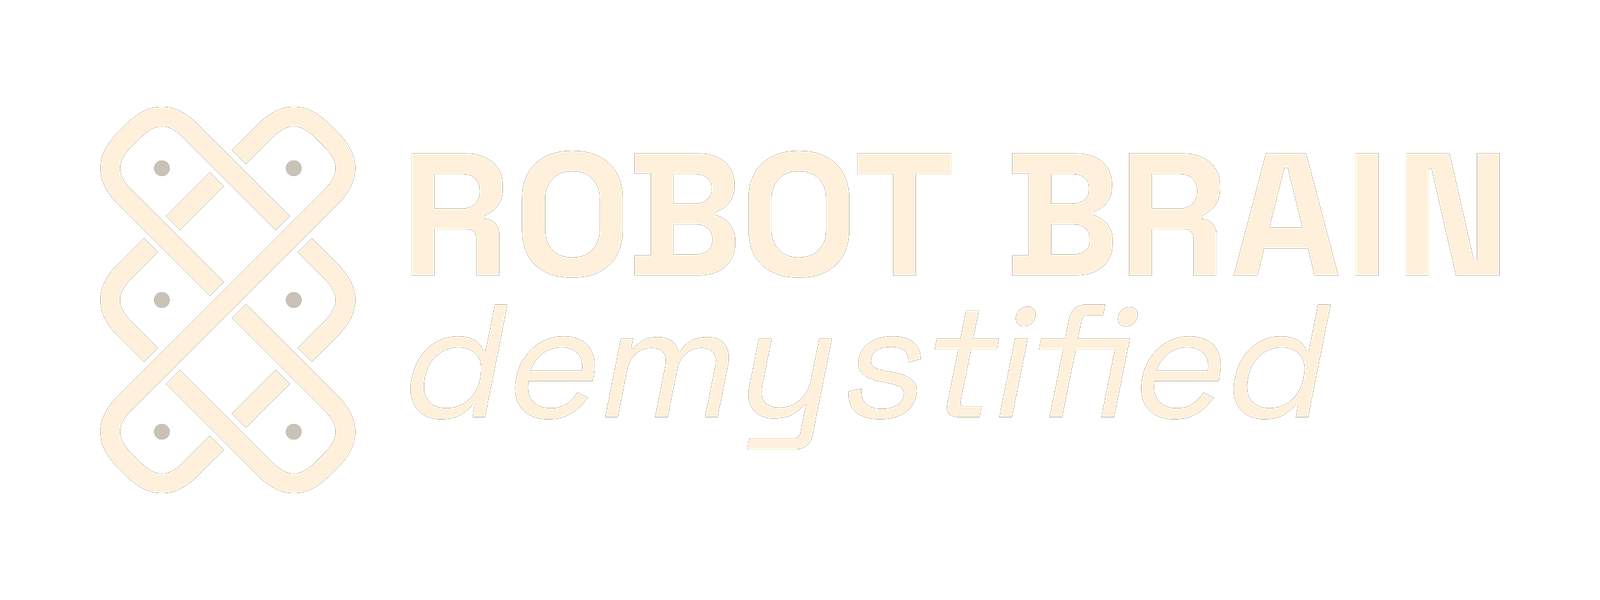
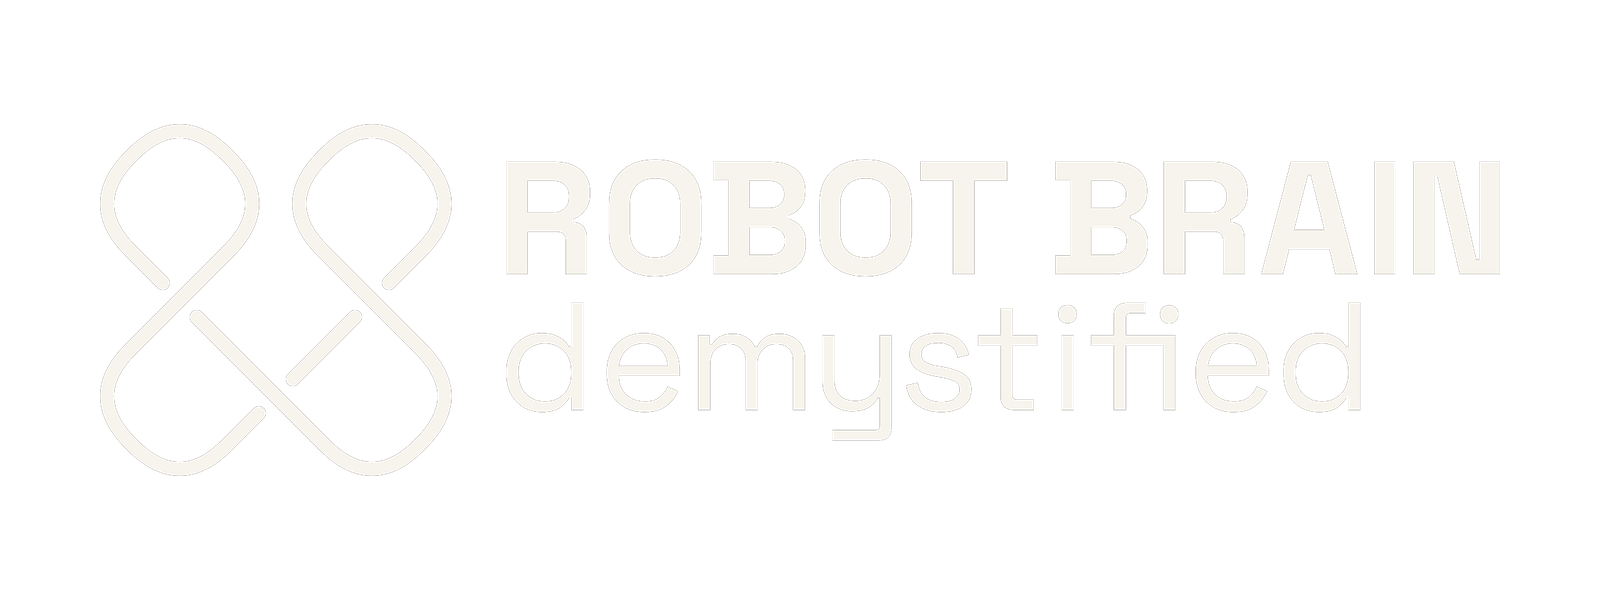
Apply petrol closed-weave brand identity
Update canonical marks, upright wordmark, palette, favicon and share image. Preserve the established page content and equal channel links; add a versioned email badge.

Changed region(s): [[0.0625, 0.18, 0.5938, 0.84], [0.25, 0.51, 0.8438, 0.75], [0.625, 0.24, 0.9375, 0.48]]

diff --git a/index.html b/index.html
@@ -5,29 +5,29 @@
 <meta name="viewport" content="width=device-width, initial-scale=1, viewport-fit=cover">
 <title>Robot Brain Demystified</title>
 <meta name="description" content="Demystifying the intelligence that lets a robot perceive, think, and act.">
-<link rel="icon" type="image/png" href="/favicon.png?v=kolam2">
-  <link rel="apple-touch-icon" href="/favicon.png?v=kolam2">
+<link rel="icon" type="image/png" href="/favicon.png?v=weave1">
+  <link rel="apple-touch-icon" href="/apple-touch-icon.png?v=weave1">
 <meta property="og:title" content="Robot Brain Demystified">
 <meta property="og:description" content="Demystifying the intelligence that lets a robot perceive, think, and act.">
 <meta property="og:type" content="website">
 <meta property="og:url" content="https://robotbraindemystified.com">
-<meta property="og:image" content="https://robotbraindemystified.com/og.png?v=kolam2">
-<meta name="theme-color" content="#A4452C">
+<meta property="og:image" content="https://robotbraindemystified.com/og.png?v=weave1">
+<meta name="theme-color" content="#123F46">
 <link rel="canonical" href="https://robotbraindemystified.com/">
 <meta name="twitter:card" content="summary_large_image">
 <style>
 @font-face{font-family:"Space Grotesk";src:url("/SpaceGrotesk-Regular.ttf") format("truetype");font-weight:400;font-display:swap}
 @font-face{font-family:"Space Grotesk";src:url("/SpaceGrotesk-Bold.ttf") format("truetype");font-weight:700;font-display:swap}
-:root{--terra:#A4452C;--cream:#FFF0DB;color-scheme:dark;font-synthesis:none}
-*{box-sizing:border-box}html{min-width:0}body{margin:0;background:var(--terra);color:var(--cream);font-family:"Space Grotesk",Arial,sans-serif;-webkit-font-smoothing:antialiased}a{color:inherit;text-decoration:none}a:focus-visible{outline:2px solid var(--cream);outline-offset:5px}
+:root{--petrol:#123F46;--chalk:#F7F4ED;color-scheme:dark;font-synthesis:none}
+*{box-sizing:border-box}html{min-width:0}body{margin:0;background:var(--petrol);color:var(--chalk);font-family:"Space Grotesk",Arial,sans-serif;-webkit-font-smoothing:antialiased}a{color:inherit;text-decoration:none}a:focus-visible{outline:2px solid var(--chalk);outline-offset:5px}
 main{width:min(100%,740px);min-height:100svh;margin:auto;padding:48px 28px 30px;display:flex;flex-direction:column;align-items:center;justify-content:center;text-align:center}
 h1{width:min(100%,540px);margin:0;font-size:inherit;line-height:0}.lockup{display:block;width:100%;height:auto}.sr-only{position:absolute;width:1px;height:1px;padding:0;margin:-1px;overflow:hidden;clip-path:inset(50%);white-space:nowrap;border:0}
 .desc{font-size:clamp(17px,2.3vw,21px);font-weight:400;line-height:1.6;max-width:35ch;margin:14px 0 0;text-wrap:balance}
 .triad{display:flex;align-items:center;justify-content:center;gap:14px;margin:21px 0 0;font-size:11px;line-height:1.5;letter-spacing:.18em;text-transform:uppercase}.triad b{font-weight:400}.triad .sep{width:3px;height:3px;border-radius:50%;background:currentColor;opacity:.5;font-size:0}
-.links{width:100%;display:grid;grid-template-columns:repeat(3,minmax(0,1fr));gap:12px;margin:38px 0 0}.links a{min-width:0;min-height:132px;display:flex;flex-direction:column;align-items:center;justify-content:center;gap:14px;padding:22px 12px;border:1px solid rgba(255,240,219,.32);border-radius:16px;background:rgba(255,240,219,.045);transition:background .18s,transform .18s,border-color .18s}.links a svg{width:25px;height:25px;flex:none}.links .meta{display:flex;flex-direction:column;gap:5px;min-width:0}.links .lbl{font-size:15px;font-weight:700;line-height:1.3}.links .hd{font-size:12px;line-height:1.5;letter-spacing:-.01em;white-space:normal;overflow-wrap:anywhere}.links a:active{transform:translateY(1px)}
-@media(hover:hover){.links a:hover{transform:translateY(-3px);background:rgba(255,240,219,.12);border-color:var(--cream)}.contact a:hover{text-decoration:underline}}
+.links{width:100%;display:grid;grid-template-columns:repeat(3,minmax(0,1fr));gap:12px;margin:38px 0 0}.links a{min-width:0;min-height:132px;display:flex;flex-direction:column;align-items:center;justify-content:center;gap:14px;padding:22px 12px;border:1px solid rgba(247,244,237,.32);border-radius:16px;background:rgba(247,244,237,.045);transition:background .18s,transform .18s,border-color .18s}.links a svg{width:25px;height:25px;flex:none}.links .meta{display:flex;flex-direction:column;gap:5px;min-width:0}.links .lbl{font-size:15px;font-weight:700;line-height:1.3}.links .hd{font-size:12px;line-height:1.5;letter-spacing:-.01em;white-space:normal;overflow-wrap:anywhere}.links a:active{transform:translateY(1px)}
+@media(hover:hover){.links a:hover{transform:translateY(-3px);background:rgba(247,244,237,.12);border-color:var(--chalk)}.contact a:hover{text-decoration:underline}}
 .contact{display:flex;flex-direction:column;align-items:center;gap:10px;margin:32px 0 0}.contact .k{font-size:10px;line-height:1.5;letter-spacing:.16em;text-transform:uppercase}.contact a{max-width:100%;overflow-wrap:anywhere;display:inline-flex;gap:9px;align-items:center;justify-content:center;min-height:44px;font-size:14px;line-height:1.5;text-underline-offset:4px}.contact svg{width:16px;height:16px;flex:none;stroke:currentColor}
-footer{white-space:nowrap;margin:28px 0 0;font-size:12px;line-height:1.5;color:rgba(255,240,219,.8)}
+footer{white-space:nowrap;margin:28px 0 0;font-size:12px;line-height:1.5;color:rgba(247,244,237,.8)}
 @media(max-width:560px){main{padding:30px 24px 24px;max-width:440px}h1{width:100%}.desc{max-width:30ch;margin-top:14px;font-size:17px;line-height:1.55}.triad{margin-top:18px;gap:12px;font-size:10px}.links{grid-template-columns:1fr;margin-top:28px;gap:10px}.links a{flex-direction:row;justify-content:flex-start;gap:16px;min-height:76px;padding:14px 20px;border-radius:13px}.links .meta{align-items:flex-start;gap:3px}.links .lbl{font-size:15px}.links .hd{font-size:12px}.links a svg{width:24px;height:24px}.contact{margin-top:25px;gap:4px}.contact a{font-size:13px;gap:7px}footer{margin-top:20px}}
 @media(max-width:340px){main{padding-left:18px;padding-right:18px}.desc{font-size:16px}.contact a{font-size:11px}}
 @media(prefers-reduced-motion:reduce){.links a{transition:none}.links a:hover{transform:none}}
@@ -35,7 +35,7 @@ footer{white-space:nowrap;margin:28px 0 0;font-size:12px;line-height:1.5;color:r
 </head>
 <body>
   <main>
-    <h1><img class="lockup" src="/lockup.png?v=kolam2" width="1600" height="600" alt=""><span class="sr-only">Robot Brain Demystified</span></h1>
+    <h1><img class="lockup" src="/lockup.png?v=weave1" width="1600" height="600" alt=""><span class="sr-only">Robot Brain Demystified</span></h1>
 
     <p class="desc">Demystifying the intelligence that lets a robot perceive, think, and act.</p>
 
